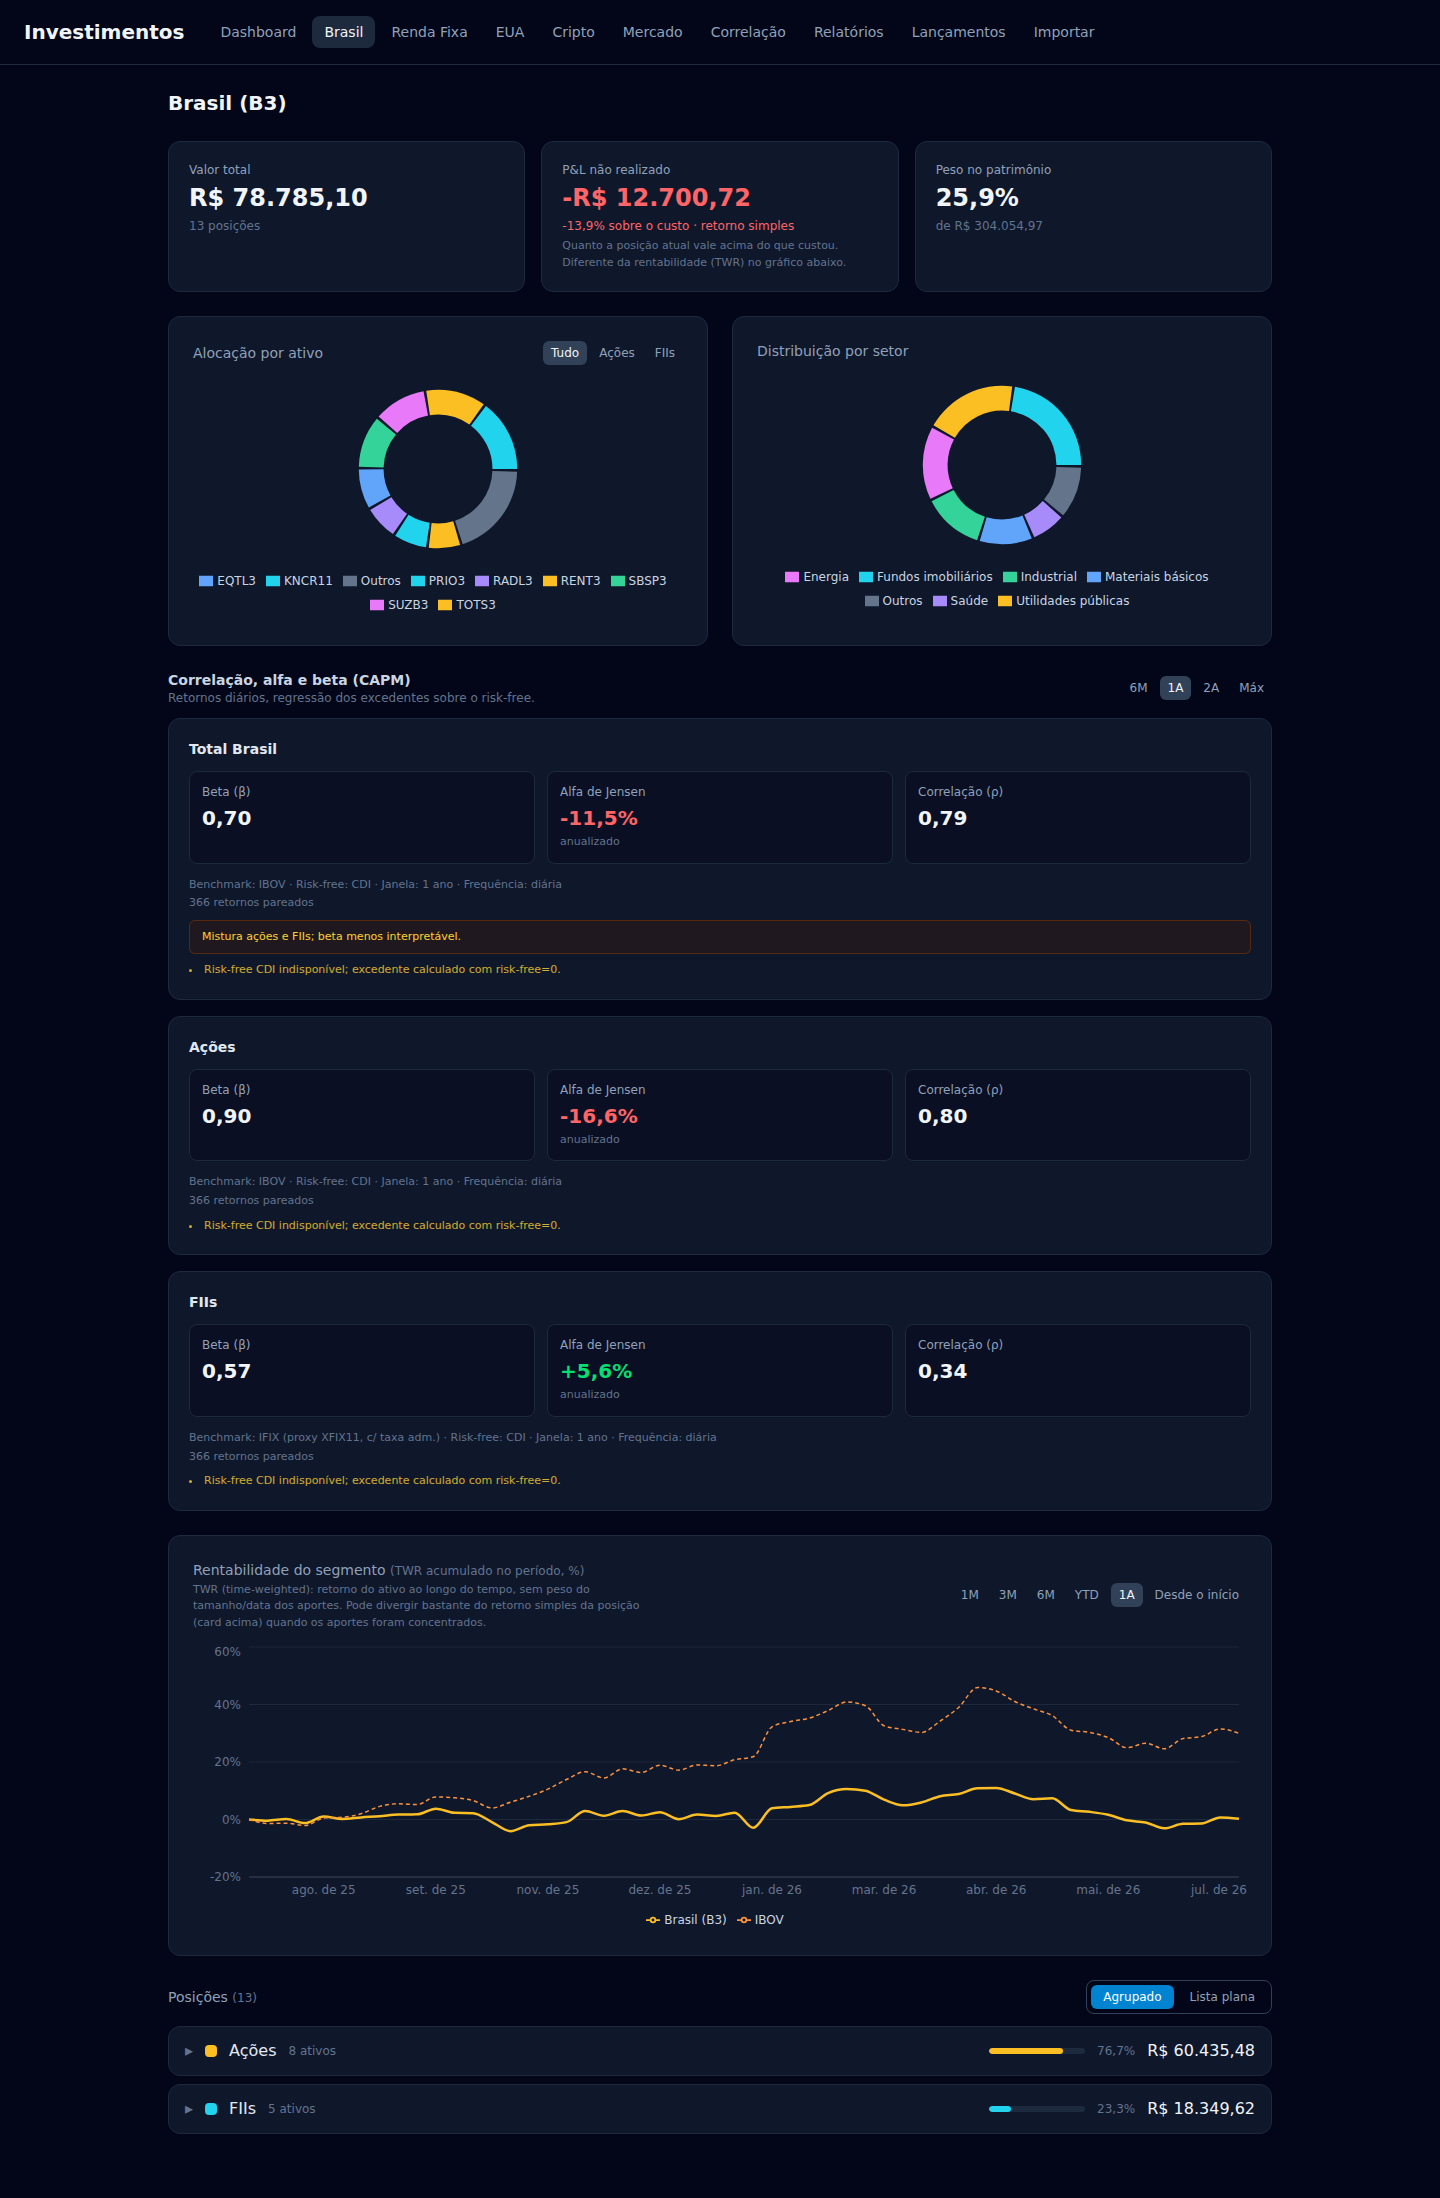
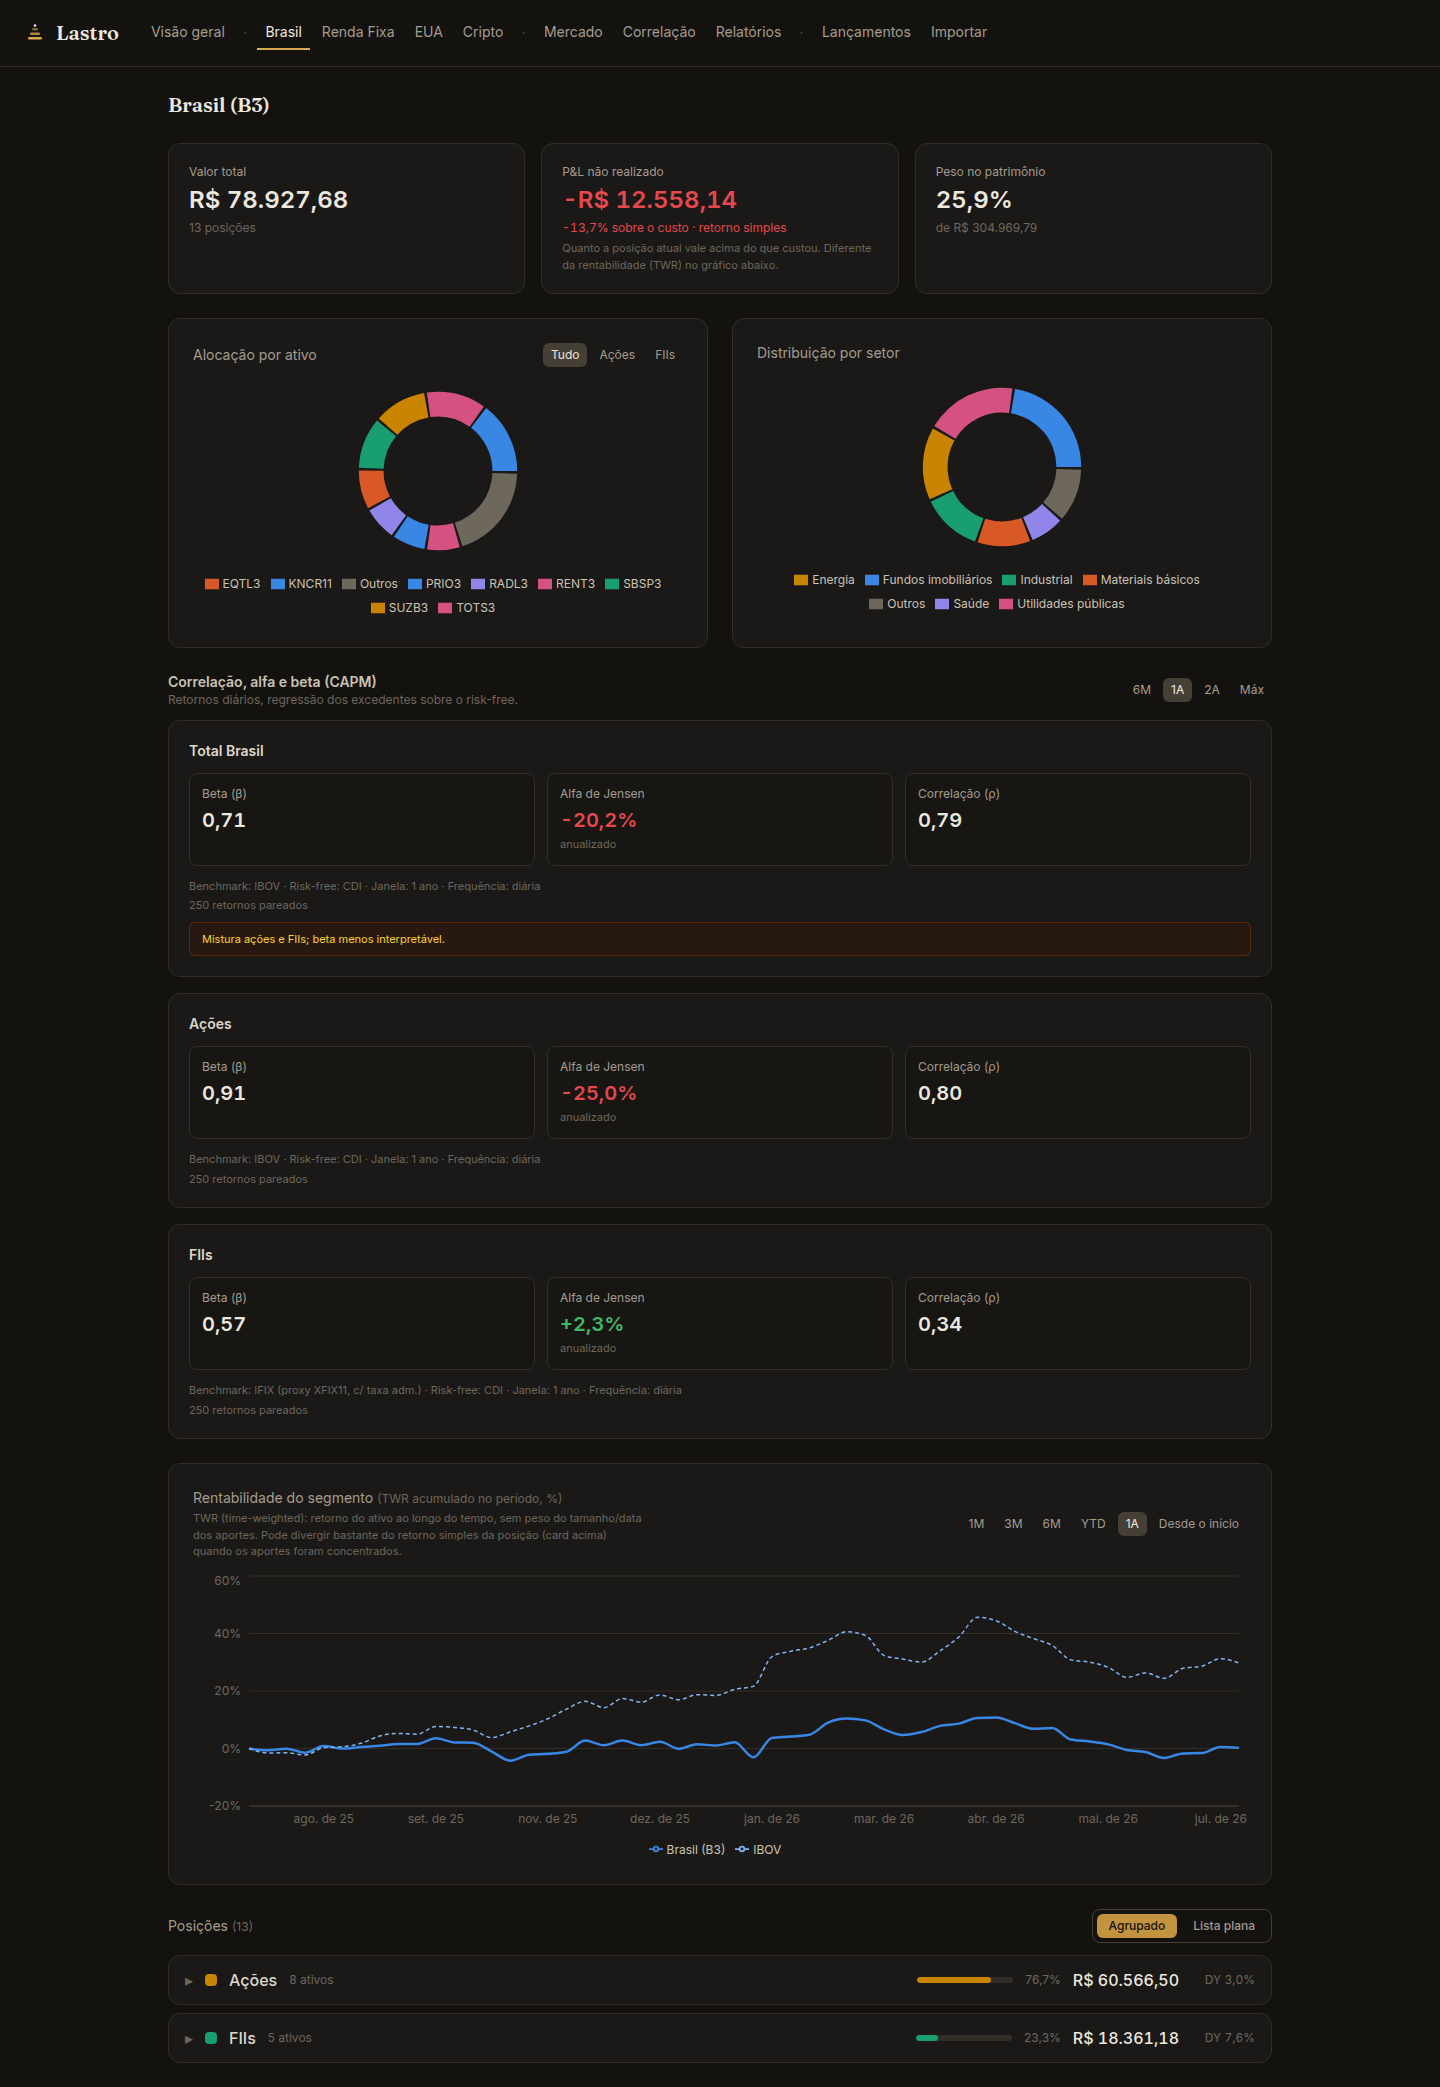
Refresh screenshots and README for the Lastro redesign and DY features

diff --git a/README.md b/README.md
@@ -1,4 +1,4 @@
-# Investimentos — plataforma pessoal de consolidação de investimentos
+# Lastro — plataforma pessoal de consolidação de investimentos
 
 > **⚠ Todos os dados exibidos neste repositório (screenshots, banco demo, script de
 > carga) são fictícios e gerados por script.** Nenhuma transação, posição ou valor
@@ -8,8 +8,9 @@
 Aplicação web **pessoal, single-user** que consolida investimentos de três fontes —
 B3 (extrato de Movimentação), Avenue (extrato CSV) e Binance (exports de trade/order
 history) — em um dashboard único: patrimônio consolidado em BRL, seções EUA e cripto
-em USD nativo, renda (dividendos/JCP/rendimentos), TWR contra benchmarks (CDI, IBOV,
-S&P 500, BTC), correlação, CAPM e relatório mensal.
+em USD nativo, renda (dividendos/JCP/rendimentos), dividend yield 12m por posição e
+da carteira, TWR contra benchmarks (CDI, IBOV, S&P 500, BTC), correlação, CAPM e
+relatório mensal.
 
 A ideia central é **automatizar a vida do investidor**: você arrasta o extrato
 exportado da corretora/exchange e a plataforma calcula tudo sozinha — posições, preço
@@ -85,6 +86,21 @@ adicionais, auditáveis.
 
 **Dinheiro nunca é float.** `Decimal` no Python, `NUMERIC` no banco, string no JSON,
 `Intl.NumberFormat('pt-BR')` no frontend.
+
+**Design system próprio, com paleta validada por script.** Identidade "Ledger": dark
+quente (grafite, não o slate azulado default), latão como única cor de marca (botões
+com texto escuro por contraste — 6,8:1), Inter para UI/dados e serifa de display em
+exatamente três papéis (wordmark, número-herói, título de página). Cor é sistêmica
+(`src/lib/colors.ts` é fonte única): a paleta categórica dos gráficos foi **validada
+por script contra daltonismo** (separação protan/deutan ΔE ≥ 8 nos pares adjacentes,
+contraste ≥ 3:1 sobre a superfície) — a ordem das cores é o mecanismo de segurança,
+não estética. Verde/vermelho são reservados à semântica ganho/perda; benchmarks
+tracejados usam a versão clara do matiz da seção que referenciam.
+
+**Dividend yield honesto entre moedas.** DY 12m = renda móvel de 12 meses ÷ valor de
+mercado, **numerador e denominador na moeda nativa da posição** — o percentual vale
+igual na visão BRL e na visão USD. Renda fixa não exibe DY por definição; grupos
+agregam por média ponderada pelo valor de mercado.
 
 **Cripto com custódia explícita.** O motor de posições indexa por `(ticker, custódia)`
 — o mesmo ativo na exchange e em self-custody são posições distintas, movidas por uma
